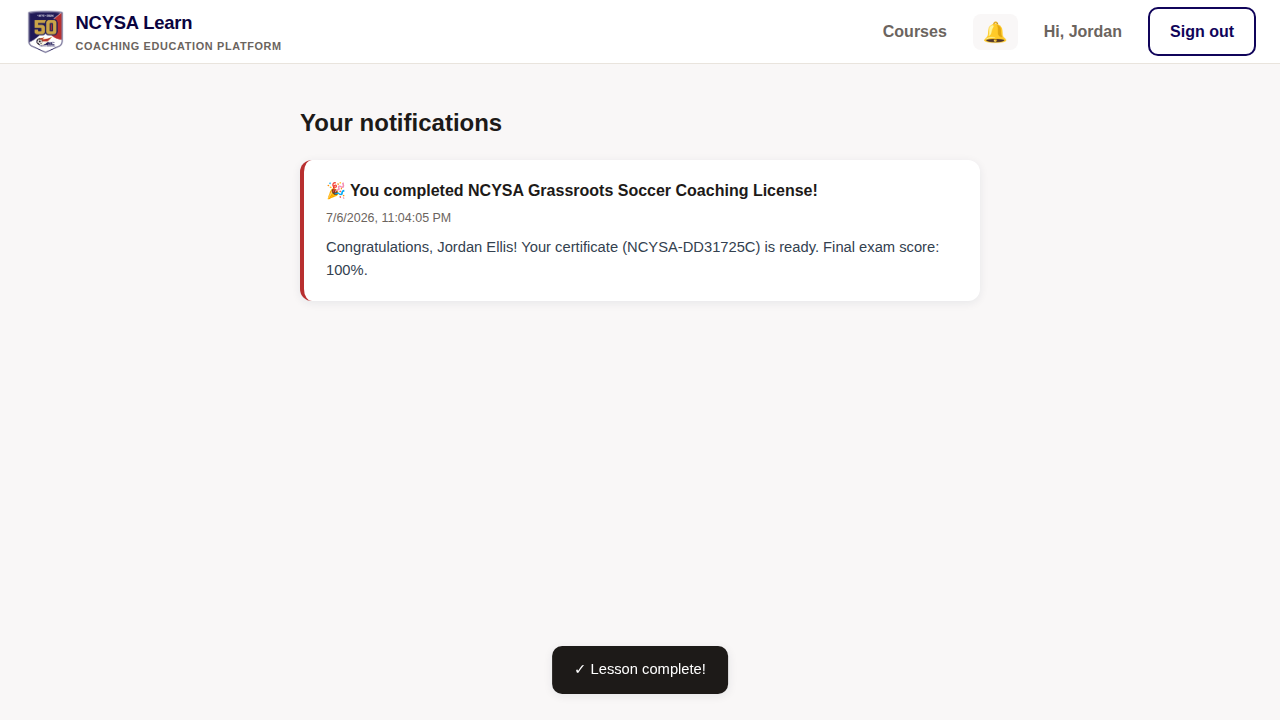
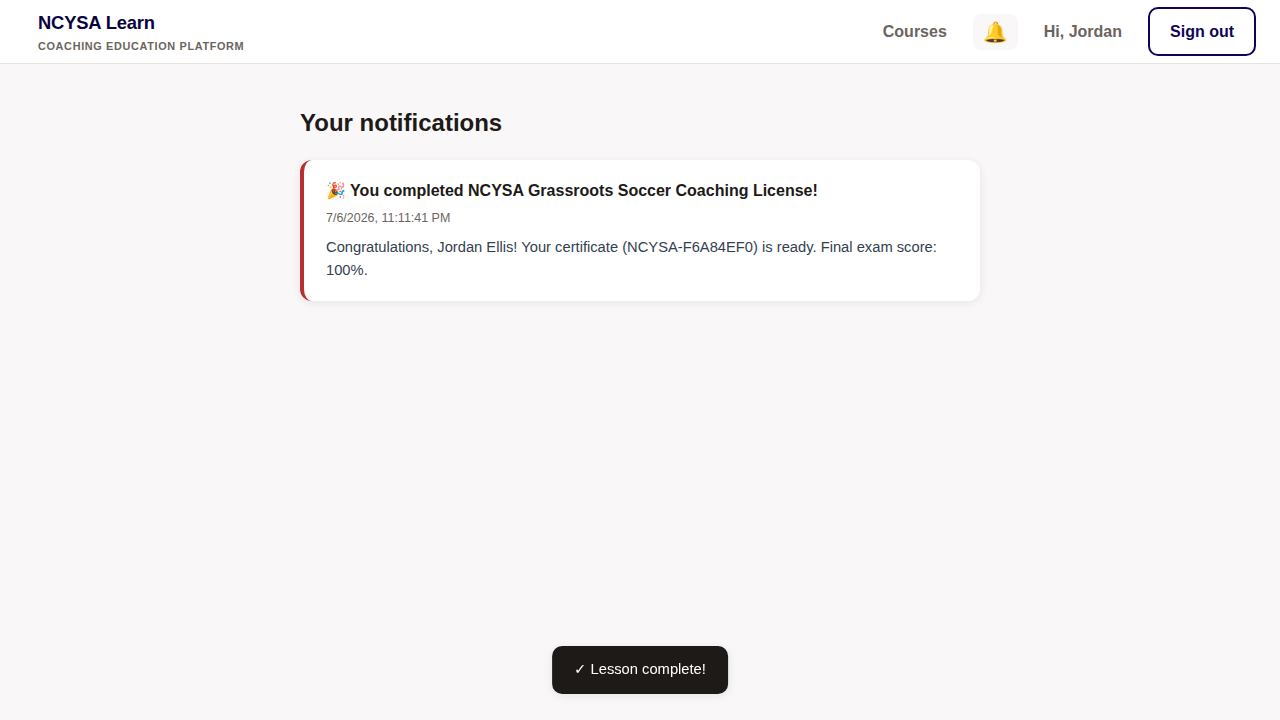
Item 4: Full mobile responsiveness at ~390px
Added mobile breakpoints: nav fits on one row (drops subtitle/greeting/Courses
link), sections reflow, resume banner stacks, course player goes content-first
with the curriculum below, video controls and quiz options are tappable (44px
targets on touch), certificate and admin tables fit. Verified no horizontal
overflow on home, catalog, player, video, quiz, completion, certificate, admin,
or role split at 390px; desktop suites still pass.

Claude-Session: https://claude.ai/code/session_018u9gfGCRwBF7xDumhssY86

Changed region(s): [[0.0, 0.0, 0.2188, 0.0917], [0.5312, 0.3361, 0.75, 0.3667], [0.3125, 0.275, 0.3438, 0.3056]]

diff --git a/index.html b/index.html
@@ -359,6 +359,62 @@ a:hover { text-decoration: underline; }
 .resume-meta { font-size: 0.82rem; color: #dcd7f5; }
 .resume-btn { white-space: nowrap; }
 
+/* ============================================================
+   Mobile responsiveness (phones ~390px and up)
+   ============================================================ */
+@media (max-width: 600px) {
+  :root { font-size: 15px; }
+
+  /* Nav: keep it on one row and inside the viewport */
+  .topnav { padding: 0 12px; gap: 8px; height: 58px; }
+  .topnav .logo .sub { display: none; }          /* drop subtitle on phones */
+  .topnav .logo span { font-size: 1.02rem; }
+  .topnav .brandmark { height: 40px; padding: 2px 4px; }
+  .topnav .navlink { padding: 6px 6px; font-size: 0.92rem; }
+  .topnav .greeting { display: none; }            /* greeting is non-essential */
+  .topnav .nav-courses { display: none; }         /* Courses lives on the home page */
+  .topnav .btn { padding: 8px 12px; font-size: 0.9rem; }
+  .topnav .bell { padding: 4px 6px; }
+
+  /* Generic section padding */
+  .section { padding: 36px 16px; }
+  .hero { padding: 48px 18px 60px; }
+  .feature-strip { margin-top: -30px; padding: 0 16px; gap: 12px; }
+
+  /* Resume banner stacks */
+  .resume-inner { padding: 16px; }
+  .resume-btn { width: 100%; text-align: center; }
+
+  /* Course player: lesson content first, curriculum below (both full width) */
+  .player-layout { display: flex; flex-direction: column; }
+  .lesson-pane { order: -1; padding: 26px 18px; }
+  .lesson-pane h1 { font-size: 1.4rem; }
+  .curriculum { padding: 8px 0 20px; }
+
+  /* Video controls comfortable to tap */
+  .v-controls button { font-size: 1.4rem; padding: 8px 10px; }
+
+  /* Certificate fits the screen */
+  .certificate { padding: 32px 20px; margin: 24px auto; }
+  .certificate h1 { font-size: 1.5rem; }
+  .certificate .learner-name { font-size: 1.7rem; }
+  .certificate .course-name { font-size: 1.05rem; }
+
+  /* Auth + notifications full-bleed-ish */
+  .auth-wrap { margin: 32px auto; }
+  .admin-wrap, .notif-list { padding: 0 14px; }
+
+  /* Wide tables scroll inside their card, never the page body */
+  .admin-card { padding: 16px; }
+  .lesson-content table { font-size: 0.85rem; }
+}
+
+/* Larger tap targets on any touch device */
+@media (hover: none) {
+  .btn, .lesson-item, .bell, .v-controls button, .quiz-opt { min-height: 44px; }
+  .quiz-opt { align-items: center; }
+}
+
 
 /* ---------- demo bar ---------- */
 .demo-bar {
@@ -1026,11 +1082,11 @@ function renderNav() {
       <span>NCYSA Learn<span class="sub">Coaching Education Platform</span></span>
     </a>
     <span class="spacer"></span>
-    <a class="navlink" href="#/courses">Courses</a>
+    <a class="navlink nav-courses" href="#/courses">Courses</a>
     ${user ? `
-      ${user.role === 'admin' ? '<a class="navlink" href="#/admin">NCYSA Dashboard</a>' : ''}
+      ${user.role === 'admin' ? '<a class="navlink nav-dashboard" href="#/admin">NCYSA Dashboard</a>' : ''}
       <button class="bell" id="bellBtn" title="Notifications">🔔${me.unread ? `<span class="dot">${me.unread}</span>` : ''}</button>
-      <span class="navlink" style="cursor:default">Hi, ${esc(user.name.split(' ')[0])}</span>
+      <span class="navlink greeting" style="cursor:default">Hi, ${esc(user.name.split(' ')[0])}</span>
       <button class="btn btn-ghost" id="logoutBtn">Sign out</button>
     ` : `
       <a class="navlink" href="#/login">Sign in</a>
@@ -1301,6 +1357,7 @@ async function viewCourse(courseId, lessonId) {
           <div class="prog-label">${progress.completedLessons} of ${progress.totalLessons} lessons complete · ${progress.percent}%</div>
           <div class="progress-track"><div class="progress-fill" style="width:${progress.percent}%"></div></div>
         </div>
+        <div class="curriculum-lessons">
         ${course.lessons.map((l, i) => {
           const st = progress.lessons.find((p) => p.id === l.id);
           const cls = ['lesson-item', l.id === lesson.id ? 'active' : '', st.unlocked ? '' : 'locked'].join(' ');
@@ -1310,6 +1367,7 @@ async function viewCourse(courseId, lessonId) {
             <span class="l-title">${esc(l.title)}<span class="l-type">${typeLabel[l.type] || l.type}</span></span>
           </button>`;
         }).join('')}
+        </div>
       </aside>
       <section class="lesson-pane" id="lessonPane"></section>
     </div>`;

diff --git a/public/styles.css b/public/styles.css
@@ -337,3 +337,59 @@ a:hover { text-decoration: underline; }
 .resume-fill { background: var(--gold); height: 100%; border-radius: 999px; }
 .resume-meta { font-size: 0.82rem; color: #dcd7f5; }
 .resume-btn { white-space: nowrap; }
+
+/* ============================================================
+   Mobile responsiveness (phones ~390px and up)
+   ============================================================ */
+@media (max-width: 600px) {
+  :root { font-size: 15px; }
+
+  /* Nav: keep it on one row and inside the viewport */
+  .topnav { padding: 0 12px; gap: 8px; height: 58px; }
+  .topnav .logo .sub { display: none; }          /* drop subtitle on phones */
+  .topnav .logo span { font-size: 1.02rem; }
+  .topnav .brandmark { height: 40px; padding: 2px 4px; }
+  .topnav .navlink { padding: 6px 6px; font-size: 0.92rem; }
+  .topnav .greeting { display: none; }            /* greeting is non-essential */
+  .topnav .nav-courses { display: none; }         /* Courses lives on the home page */
+  .topnav .btn { padding: 8px 12px; font-size: 0.9rem; }
+  .topnav .bell { padding: 4px 6px; }
+
+  /* Generic section padding */
+  .section { padding: 36px 16px; }
+  .hero { padding: 48px 18px 60px; }
+  .feature-strip { margin-top: -30px; padding: 0 16px; gap: 12px; }
+
+  /* Resume banner stacks */
+  .resume-inner { padding: 16px; }
+  .resume-btn { width: 100%; text-align: center; }
+
+  /* Course player: lesson content first, curriculum below (both full width) */
+  .player-layout { display: flex; flex-direction: column; }
+  .lesson-pane { order: -1; padding: 26px 18px; }
+  .lesson-pane h1 { font-size: 1.4rem; }
+  .curriculum { padding: 8px 0 20px; }
+
+  /* Video controls comfortable to tap */
+  .v-controls button { font-size: 1.4rem; padding: 8px 10px; }
+
+  /* Certificate fits the screen */
+  .certificate { padding: 32px 20px; margin: 24px auto; }
+  .certificate h1 { font-size: 1.5rem; }
+  .certificate .learner-name { font-size: 1.7rem; }
+  .certificate .course-name { font-size: 1.05rem; }
+
+  /* Auth + notifications full-bleed-ish */
+  .auth-wrap { margin: 32px auto; }
+  .admin-wrap, .notif-list { padding: 0 14px; }
+
+  /* Wide tables scroll inside their card, never the page body */
+  .admin-card { padding: 16px; }
+  .lesson-content table { font-size: 0.85rem; }
+}
+
+/* Larger tap targets on any touch device */
+@media (hover: none) {
+  .btn, .lesson-item, .bell, .v-controls button, .quiz-opt { min-height: 44px; }
+  .quiz-opt { align-items: center; }
+}

diff --git a/public/app.js b/public/app.js
@@ -77,11 +77,11 @@ function renderNav() {
       <span>NCYSA Learn<span class="sub">Coaching Education Platform</span></span>
     </a>
     <span class="spacer"></span>
-    <a class="navlink" href="#/courses">Courses</a>
+    <a class="navlink nav-courses" href="#/courses">Courses</a>
     ${user ? `
-      ${user.role === 'admin' ? '<a class="navlink" href="#/admin">NCYSA Dashboard</a>' : ''}
+      ${user.role === 'admin' ? '<a class="navlink nav-dashboard" href="#/admin">NCYSA Dashboard</a>' : ''}
       <button class="bell" id="bellBtn" title="Notifications">🔔${me.unread ? `<span class="dot">${me.unread}</span>` : ''}</button>
-      <span class="navlink" style="cursor:default">Hi, ${esc(user.name.split(' ')[0])}</span>
+      <span class="navlink greeting" style="cursor:default">Hi, ${esc(user.name.split(' ')[0])}</span>
       <button class="btn btn-ghost" id="logoutBtn">Sign out</button>
     ` : `
       <a class="navlink" href="#/login">Sign in</a>
@@ -352,6 +352,7 @@ async function viewCourse(courseId, lessonId) {
           <div class="prog-label">${progress.completedLessons} of ${progress.totalLessons} lessons complete · ${progress.percent}%</div>
           <div class="progress-track"><div class="progress-fill" style="width:${progress.percent}%"></div></div>
         </div>
+        <div class="curriculum-lessons">
         ${course.lessons.map((l, i) => {
           const st = progress.lessons.find((p) => p.id === l.id);
           const cls = ['lesson-item', l.id === lesson.id ? 'active' : '', st.unlocked ? '' : 'locked'].join(' ');
@@ -361,6 +362,7 @@ async function viewCourse(courseId, lessonId) {
             <span class="l-title">${esc(l.title)}<span class="l-type">${typeLabel[l.type] || l.type}</span></span>
           </button>`;
         }).join('')}
+        </div>
       </aside>
       <section class="lesson-pane" id="lessonPane"></section>
     </div>`;
